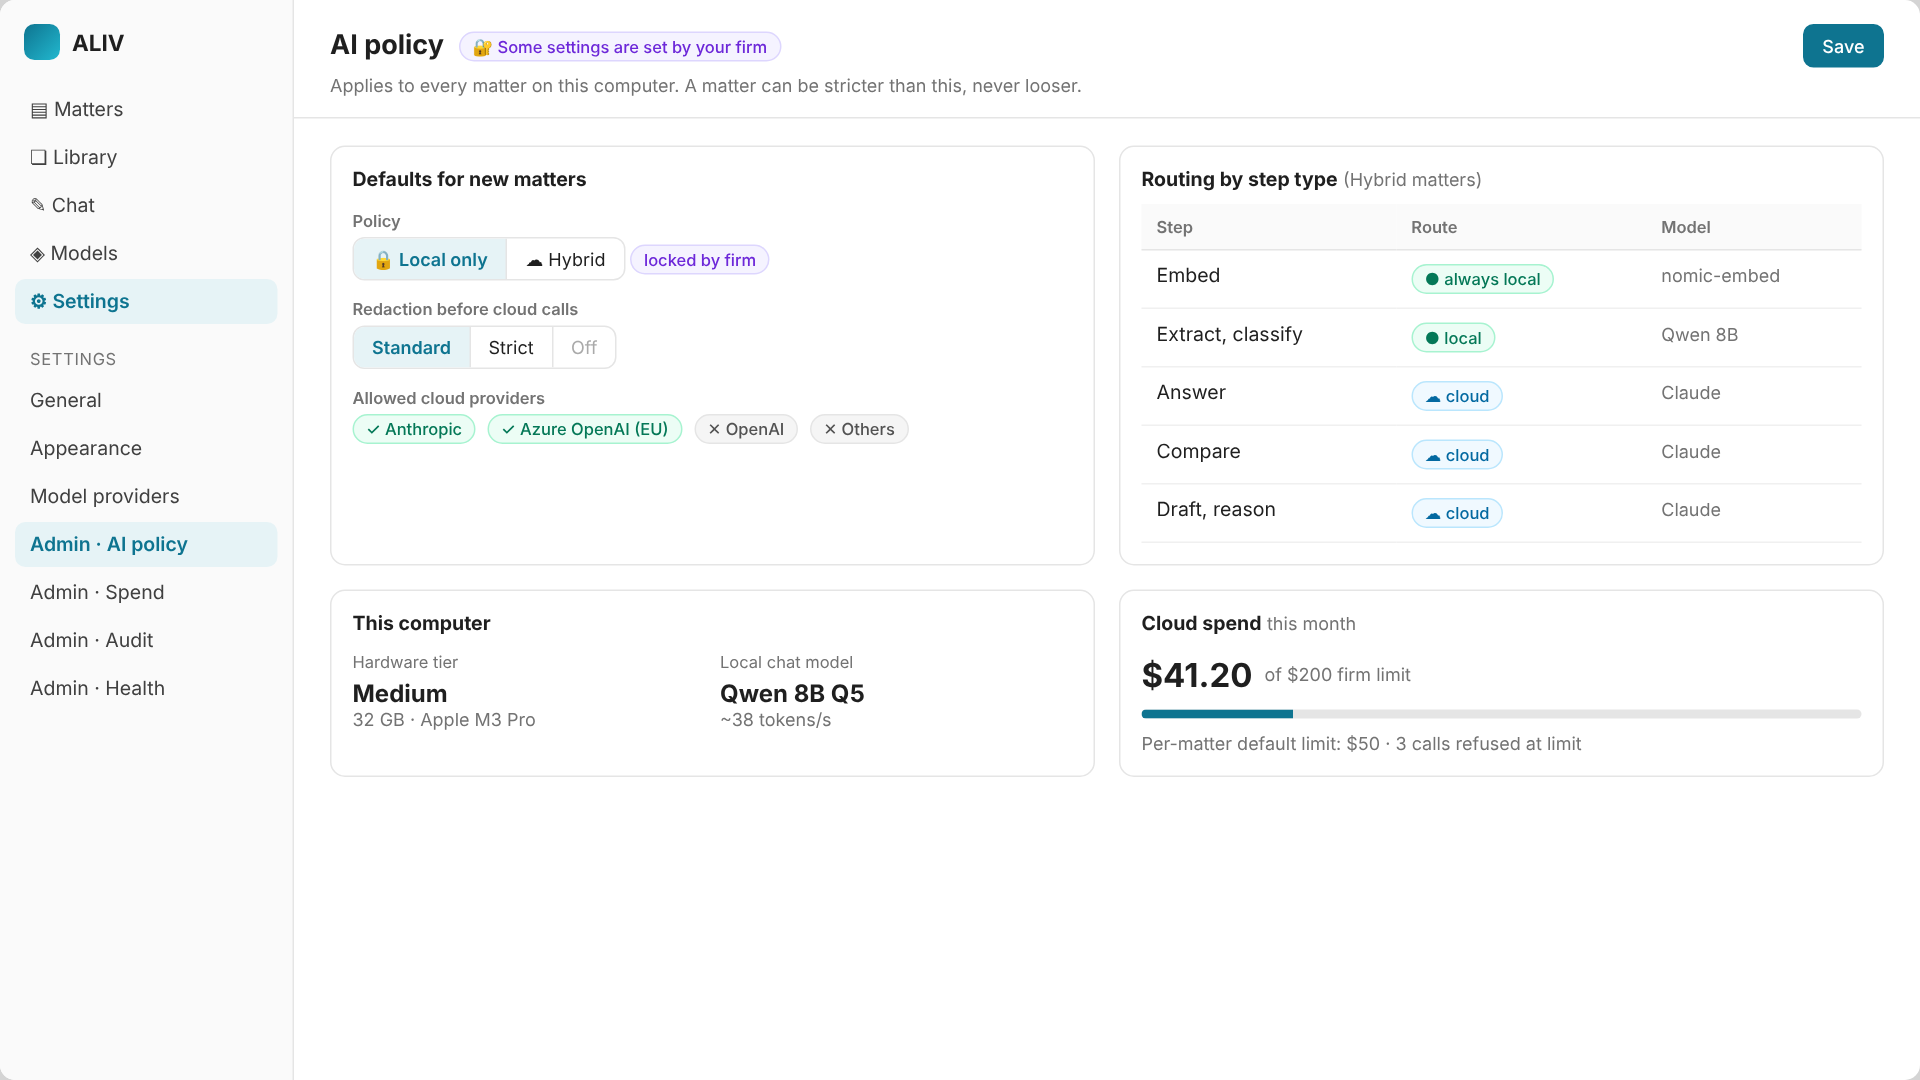
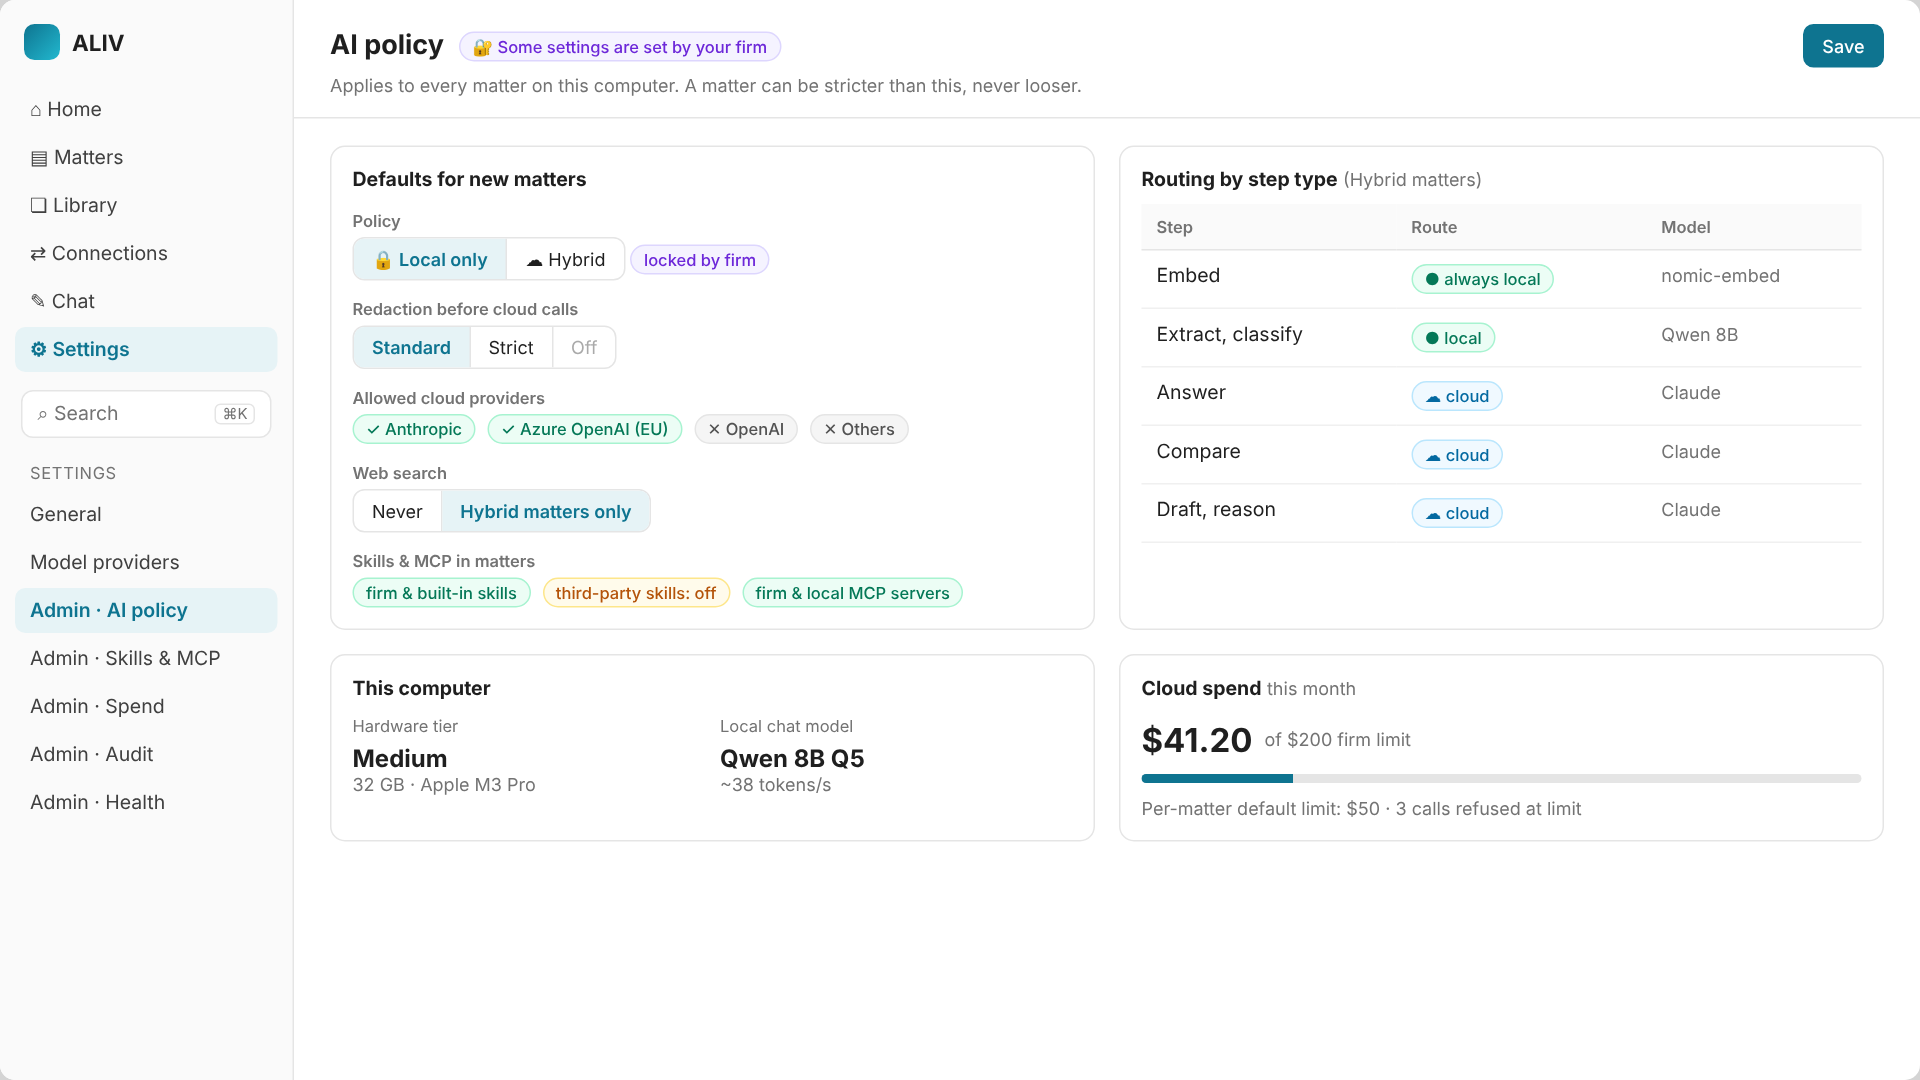
Rework mockups: full navigation (Home, Matters, Library, Connections, Chat, Settings, ⌘K) and matter tabs on every screen; add workspace settings, Artifacts and Automations mockups; Home shows recent artifacts and automations; admin policy adds web search, skills and MCP defaults
Claude-Session: https://claude.ai/code/session_01JwVSXGESoaiGwJRaX1knFA

diff --git a/docs/05-design/ALIV_UI-Spec.md b/docs/05-design/ALIV_UI-Spec.md
@@ -45,7 +45,8 @@ App shell (left sidebar from the base app)
 | Counters | Deadlines in 30 days, waiting for you, running now, model calls this month with the share run locally |
 | Upcoming deadlines | All matters, 90 days, DaysPill; Open jumps to the clause |
 | Waiting for you | Approvals, inbox items (R3), cells needing review (R2) |
-| Running | Tables and workflows with progress; click opens the run log |
+| Running | Tables, workflows and scheduled automations with progress; click opens the run log |
+| Recent artifacts | Latest versioned outputs across matters (R2) |
 | Sidebar | Pinned matters with their policy icon |
 
 **Matters** (shipped) lists every matter and is the landing screen until Home ships.
@@ -156,16 +157,16 @@ Entries: time, kind, summary, expandable detail. Verify integrity → success or
 
 | Screen | Behaviour | IDs |
 |---|---|---|
-| **Matter settings › Workspace** (R1) | Matter instructions (client, our side, objectives, house style); linked source folders with last-scan time and Re-scan; output folder (R2) | WS-02/03/04 |
+| **Matter settings › Workspace** (R1) · [mockup](../assets/mockups/workspace-settings.png) | Matter instructions (client, our side, objectives, house style); linked source folders with last-scan time and Re-scan; output folder (R2) | WS-02/03/04 |
 | **Matter settings › Skills & tools** (R1) | Enabled skills with trust badge (built-in, firm, personal, third-party) and version; allowed MCP servers with trust level; web search on/off (Hybrid only) | WS-06, SKL-01/02, MCP-02, SRCH-10 |
 | **Chats tab** (R1) | Threads inside the matter; each message shows its RoutePill and the skills used; `/` opens enabled skills | WS-01, SKL-01 |
 | **Skill review dialog** (R1) | Full SKILL.md, bundled files and scripts, trust level, source; Enable is disabled for third-party skills on Local only matters | SKL-03/04 |
 | **Approval card for tools and scripts** (R1) | Tool or script name, server or skill, exactly what will be sent or changed; Approve / Reject | MCP-04, SKL-04 |
-| **Artifacts tab** (R2) | Grid or list: type icon, title, version, author, route, skills; open shows the artifact with citations, version history and diff; Export; Save to output folder (proposal) | ART-01–05 |
+| **Artifacts tab** (R2) · [mockup](../assets/mockups/artifacts.png) | Grid or list: type icon, title, version, author, route, skills; open shows the artifact with citations, version history and diff; Export; Save to output folder (proposal) | ART-01–05 |
 | **Global search** (R2) | ⌘K; results grouped by type and labelled by matter and tier (this matter / firm knowledge / web) | SRCH-09/11 |
 | **Connections › Connectors** (R3) | Add iManage, NetDocuments, SharePoint, Drive, Box, Outlook/Gmail; pick workspaces or folders; link to a matter; sync status, last sync, errors | CON-01–06 |
 | **Connections › MCP servers** (R1) | Servers with trust level, tools list, firm allow/block status, test connection | MCP-01/07 |
-| **Automations tab** (R3) | List of automations (trigger, action, last run, next run, on/off); editor: trigger, action (workflow, agent or skill), matter, schedule; run history with retry and pause | AUTO-01–07 |
+| **Automations tab** (R3) · [mockup](../assets/mockups/automations.png) | List of automations (trigger, action, last run, next run, on/off); editor: trigger, action (workflow, agent or skill), matter, schedule; run history with retry and pause | AUTO-01–07 |
 | **Library › Skills** (R1–R3) | My, firm and built-in skills; Import (hub or git plugin); editor; publish with change note (R3); Skill Builder from a chat (R3) | SKL-06–08 |
 
 ## 5b. Admin interface

diff --git a/docs/05-design/ALIV_Wireframes.md b/docs/05-design/ALIV_Wireframes.md
@@ -7,7 +7,7 @@ Low-fidelity layouts for the [UI Spec](ALIV_UI-Spec.md). ✅ marks shipped scree
 
 ## High-fidelity mockups
 
-Rendered with the app's design tokens ([Design System](ALIV_Design-System.md)). These are **mockups of planned screens**, not screenshots; the data is fictional.
+Rendered with the app's design tokens ([Design System](ALIV_Design-System.md)). These are **mockups of planned screens**, not screenshots; the data is fictional. All screens use the full navigation (Home, Matters, Library, Connections, Chat, Settings, ⌘K search) and the full matter tab order.
 
 | Screen | Release | Image |
 |---|---|---|
@@ -18,6 +18,9 @@ Rendered with the app's design tokens ([Design System](ALIV_Design-System.md)). 
 | Inbox (W-11) | R3 | ![Inbox](../assets/mockups/inbox.png) |
 | Admin settings on the desktop (W-13) | R1 | ![Desktop admin](../assets/mockups/admin-desktop.png) |
 | Firm Server Admin Console (W-14) | R4 | ![Admin Console](../assets/mockups/admin-console.png) |
+| Matter workspace settings: instructions, folders, connectors, skills, MCP, web search (W-15) | R1–R3 | ![Workspace settings](../assets/mockups/workspace-settings.png) |
+| Artifacts tab with version, route and skills (W-17) | R2 | ![Artifacts](../assets/mockups/artifacts.png) |
+| Automations with triggers and run history (W-19) | R3 | ![Automations](../assets/mockups/automations.png) |
 
 ---
 
@@ -29,7 +32,8 @@ The landing screen once tables, workflows and monitors exist. It shows:
 - four counters: deadlines in 30 days, waiting for you, running now, model calls this month with the local share;
 - upcoming deadlines across all matters;
 - "Waiting for you": approvals, inbox items, cells needing review;
-- running tables and workflows with progress.
+- running tables, workflows and scheduled automations;
+- recent artifacts.
 
 Pinned matters sit in the sidebar with their policy icon. See the [mockup](../assets/mockups/home.png). Until R1, the Matters home (W-1) is the landing screen.
 
